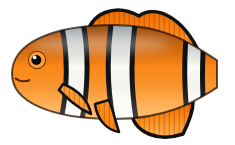
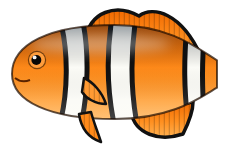
1.1.7: clownfish side fins drawn in the right places (pectoral behind the head band, pelvic below the belly)
Claude-Session: https://claude.ai/code/session_01TjXjoGUoKzCAKPjEBqhxMT

Changed region(s): [[0.2383, 0.5241, 0.5362, 0.9931]]

diff --git a/tools/make-art.js b/tools/make-art.js
@@ -214,8 +214,9 @@ asset('clown_body', 235, 145, () => {
     <ellipse cx="135" cy="44" rx="70" ry="9" fill="#fff" opacity=".35" filter="url(#b6)"/>
   </g>
   <path d="${body}" fill="none" stroke="#1a0a00" stroke-width="2" opacity=".7"/>
-  ${fin('M172,84 C156,90 146,102 144,114 C158,108 168,98 176,90 Z', '#ff9a33', '#111', 2.5)}
-  ${fin('M140,104 C138,120 128,130 116,132 C120,120 122,110 126,100 Z', '#ff8a1a', '#111', 2.5)}
+  ${''/* pelvic fin hangs below the belly under the head band; pectoral fin sits in the orange just behind the head band */}
+  ${fin('M156,114 C154,128 146,138 134,142 C138,130 142,120 144,112 Z', '#ff8a1a', '#111', 2.5)}
+  ${fin('M151,78 C142,82 133,92 129,104 C140,104 149,98 153,92 Z', '#ff9a33', '#111', 2.5)}
   <path d="M220,78 C215,82 210,82 205,80" stroke="#5a2400" stroke-width="2" fill="none"/>
   ${eye(198, 60, 8, '#ff9d3c')}`;
 });

diff --git a/store/LISTING.md b/store/LISTING.md
@@ -27,7 +27,7 @@ Settings (Settings > Theme > Screensavers > Reefscape > Custom settings):
 No account, no ads, no internet connection needed, and no data collected.
 
 ## Release notes
-1.1.6: Garden eels, fish that scatter from sharks, full-moon coral spawning, sea stars that crawl, Scuba Steve the diver, and smoother animation on older Roku models.
+1.1.7: Garden eels, fish that scatter from sharks, full-moon coral spawning, sea stars that crawl, Scuba Steve the diver, and smoother animation on older Roku models.
 
 1.0: First release.
 
@@ -46,7 +46,7 @@ No account, no ads, no internet connection needed, and no data collected.
 - Screenshots 1920x1080: screenshots/1-reef-day.jpg ... 6-clock.jpg (settings-screen.jpg is a spare)
 
 ## Package
-- ../signing/Reefscape-1.1.6.pkg (signed; keep ../signing/SIGNING-KEY.txt safe)
+- ../signing/Reefscape-1.1.7.pkg (signed; keep ../signing/SIGNING-KEY.txt safe)
 
 ## Web pages the profile asks for
 - Privacy policy: privacy-policy.html
